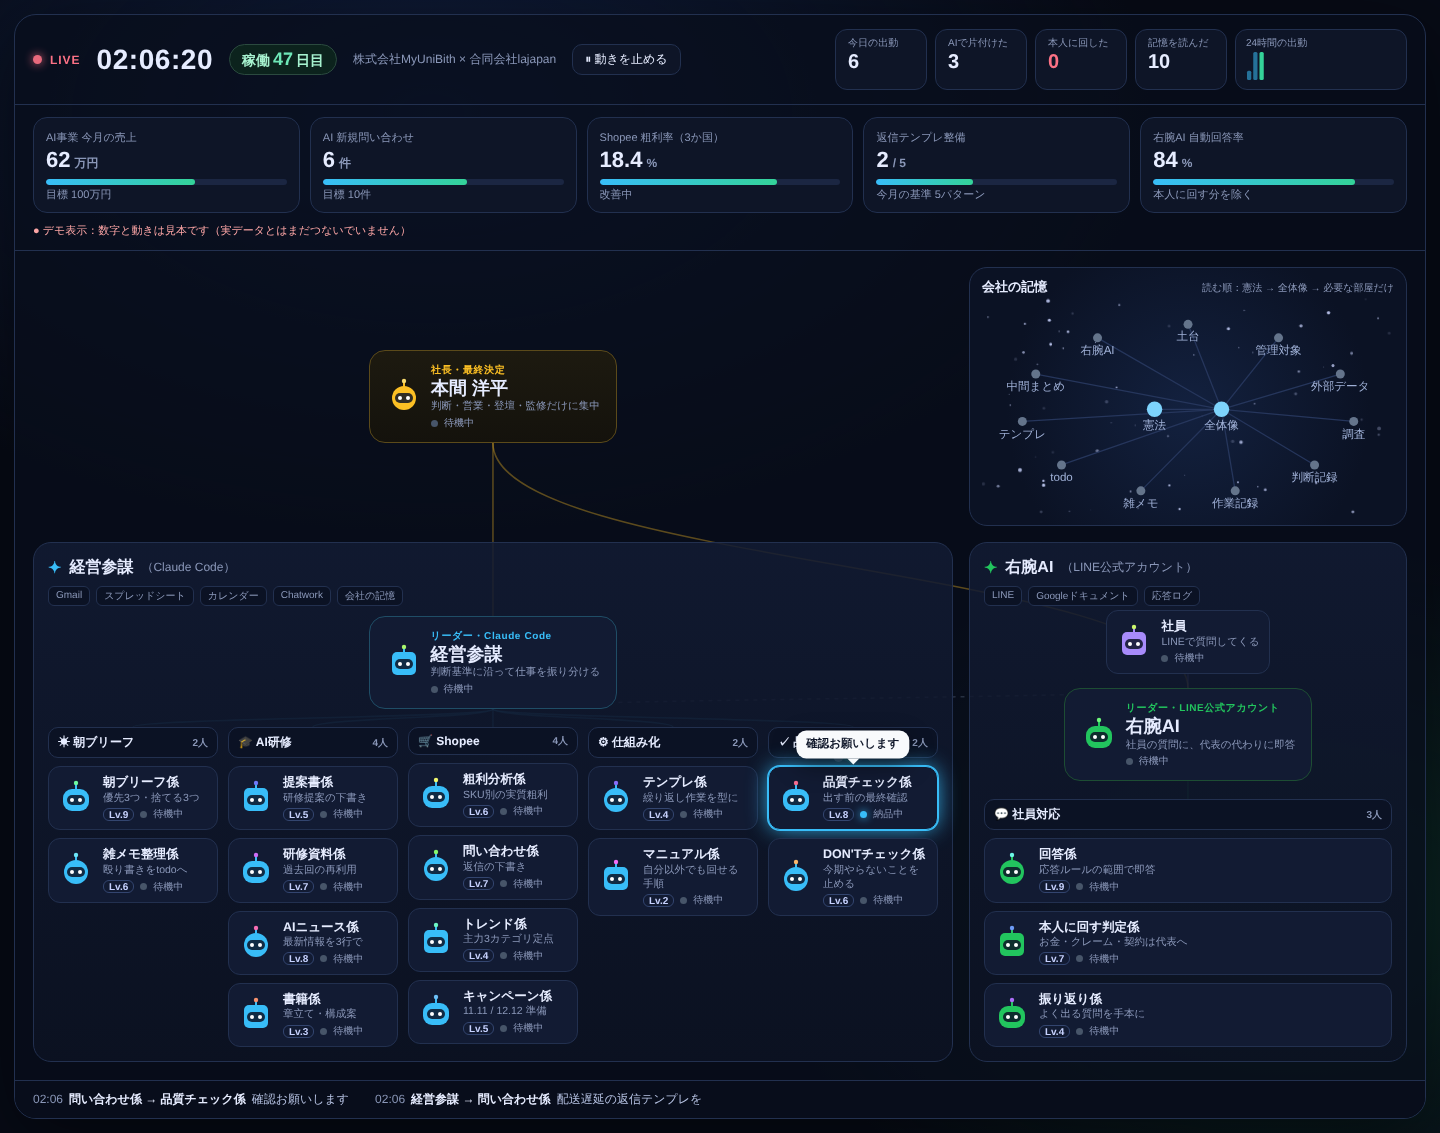
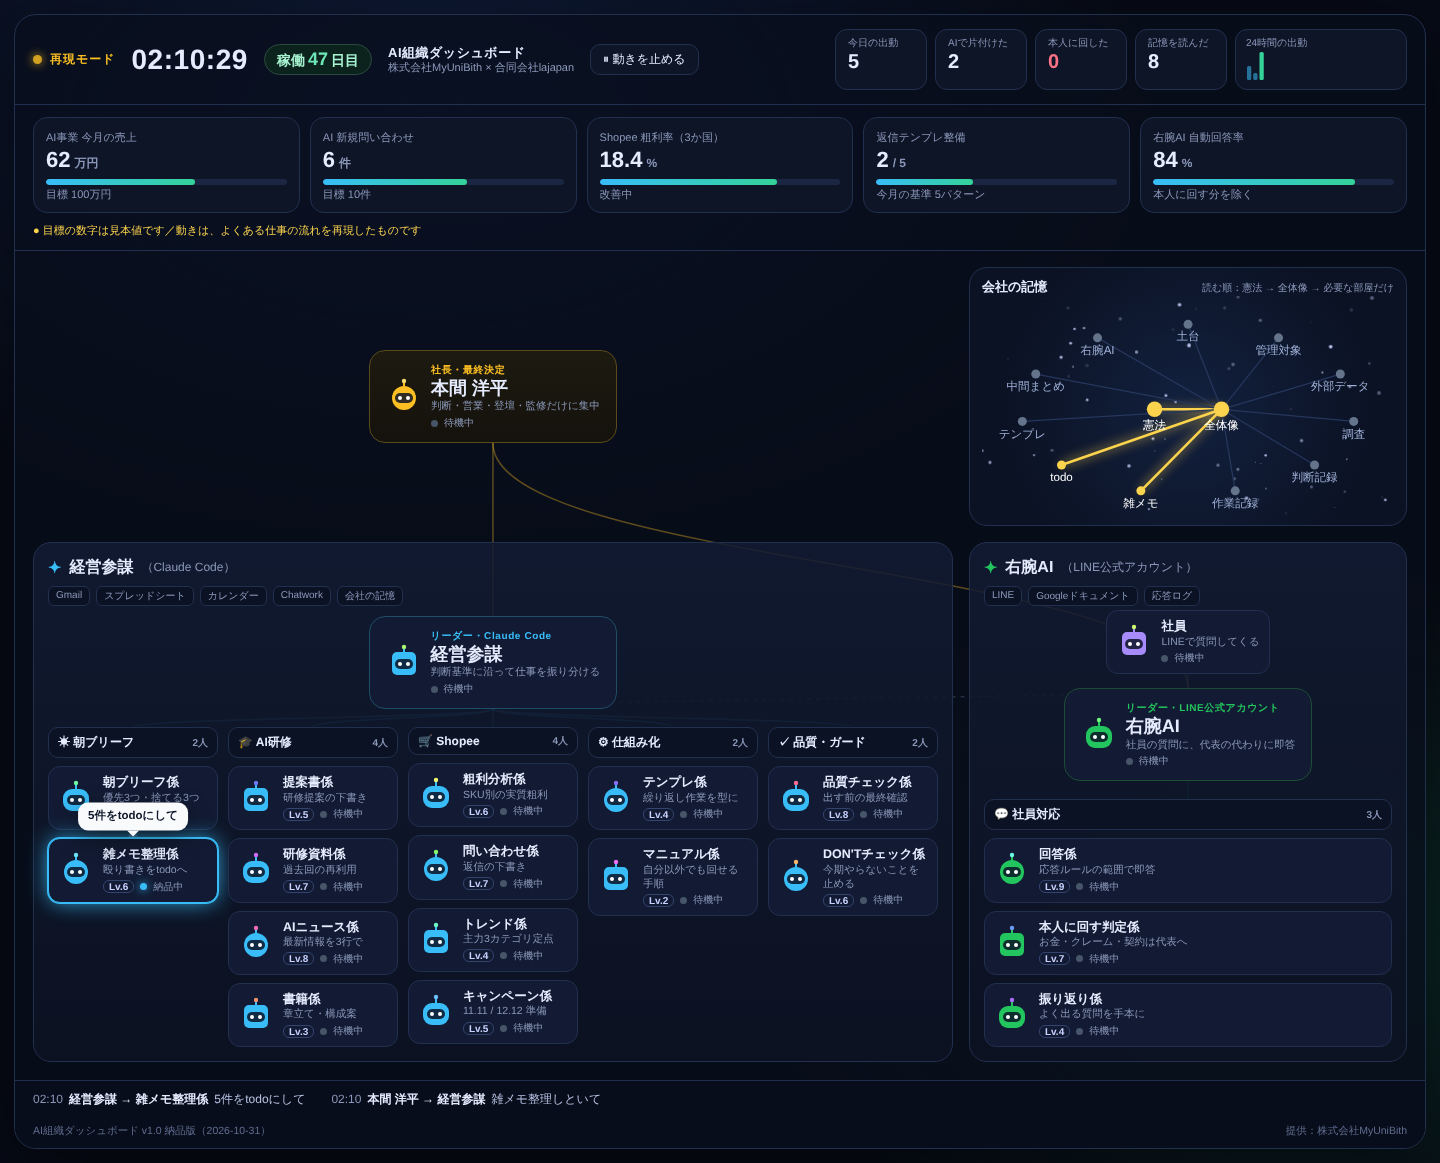
AI組織ダッシュボードをv1.0納品版に（再現モード表示・版と提供元の表記・日付変更でリセット）
Claude-Session: https://claude.ai/code/session_011drMTiUaWJKKxewPZPpHN8

diff --git a/12_AI組織ダッシュボード/AI組織ダッシュボード.html b/12_AI組織ダッシュボード/AI組織ダッシュボード.html
@@ -21,7 +21,11 @@
   .clock{font-size:28px;font-weight:800;font-variant-numeric:tabular-nums;letter-spacing:.02em}
   .pill{border:1px solid #2b4a3f;background:#0c231d;color:#a7f3d0;border-radius:999px;padding:4px 12px;font-weight:700}
   .pill b{font-size:18px;color:#6ee7b7;margin:0 3px}
-  .brand{color:var(--sub);font-size:12px}
+  .live.replay{color:var(--owner)}
+  .live.replay i{background:var(--owner);box-shadow:0 0 10px var(--owner)}
+  .title{display:flex;flex-direction:column;line-height:1.2}
+  .title b{font-size:13px;letter-spacing:.04em}
+  .brand{color:var(--sub);font-size:11px}
   .btn{border:1px solid var(--line);background:var(--panel);color:var(--text);border-radius:10px;padding:6px 12px;font:inherit;font-size:12px;cursor:pointer}
   .btn:hover{border-color:var(--sanbo)}
   .stats{display:flex;gap:8px;margin-left:auto;flex-wrap:wrap}
@@ -40,7 +44,8 @@
   .kpi .v span{font-size:12px;color:var(--sub);font-weight:600;margin-left:4px}
   .bar{height:6px;border-radius:6px;background:#1b2642;overflow:hidden}
   .bar i{display:block;height:100%;border-radius:6px;background:linear-gradient(90deg,var(--sanbo),var(--good));transition:width 1s}
-  .demo{grid-column:1/-1;font-size:11px;color:#fca5a5;display:flex;align-items:center;gap:6px}
+  .demo{grid-column:1/-1;font-size:11px;color:#fcd34d;display:flex;align-items:center;gap:6px}
+  .demo:empty{display:none}
 
   /* 舞台 */
   .stage{position:relative;padding:16px 18px 18px}
@@ -108,6 +113,7 @@
   .ticker .t{color:var(--sub);margin-right:6px;font-variant-numeric:tabular-nums}
   .ticker .who{font-weight:700}
   .ticker .what{color:#b6c2e2;margin-left:6px}
+  .credit{display:flex;justify-content:space-between;flex-wrap:wrap;gap:4px 12px;padding:6px 18px 10px;font-size:10.5px;color:#5f6d8f;background:#080d1b}
   .ticker .lab{font-size:10px;border-radius:5px;padding:1px 5px;margin-left:6px;font-weight:800}
   .lab.esc{background:#4c1d24;color:#fda4af}.lab.rej{background:#1e293b;color:#94a3b8}.lab.ok{background:#052e1f;color:#6ee7b7}
 
@@ -144,10 +150,10 @@
 <body>
 <div class="wrap" id="wrap">
   <header class="top">
-    <div class="live"><i></i>LIVE</div>
+    <div class="live" id="live"><i></i><span id="live-t">LIVE</span></div>
     <div class="clock" id="clock">--:--:--</div>
     <div class="pill">稼働<b id="days">0</b>日目</div>
-    <div class="brand" id="brand"></div>
+    <div class="title"><b id="product"></b><span class="brand" id="brand"></span></div>
     <button class="btn" id="pause">⏸ 動きを止める</button>
     <div class="stats">
       <div class="stat"><small>今日の出動</small><b id="s-dispatch">0</b></div>
@@ -173,6 +179,7 @@
   </main>
 
   <footer class="ticker" id="ticker"></footer>
+  <div class="credit"><span id="credit-l"></span><span id="credit-r"></span></div>
 </div>
 
 <script>
@@ -180,10 +187,16 @@
    設定（お客さまごとに作り替えるときは、ここだけを書き換える）
    ===================================================================== */
 const CONFIG = {
+  product: "AI組織ダッシュボード",
+  version: "v1.0 納品版（2026-10-31）",
+  provider: "提供：株式会社MyUniBith",
   brand: "株式会社MyUniBith × 合同会社lajapan",
+  // 動きの出どころ：replay＝よくある仕事の流れを再現して見せる／live＝実際の記録を流す（実データ接続後）
+  activity: "replay",
+  // 目標の数字が見本値なら true。本物の数字に入れ替えたら false にする（注意書きが消える）
+  numbersAreSample: true,
   startDate: "2026-09-15",              // 稼働開始日（「稼働○日目」の起点）
   owner: { id:"owner", name:"本間 洋平", tag:"社長・最終決定", desc:"判断・営業・登壇・監修だけに集中" },
-  demoNote: "デモ表示：数字と動きは見本です（実データとはまだつないでいません）",
   kpis: [
     { label:"AI事業 今月の売上", value:62, unit:"万円", goal:100, goalText:"目標 100万円" },
     { label:"AI 新規問い合わせ", value:6, unit:"件", goal:10, goalText:"目標 10件" },
@@ -314,7 +327,14 @@ function makeNode(o, color, cls, big){
 }
 
 function build(){
+  $("#product").textContent = CONFIG.product;
   $("#brand").textContent = CONFIG.brand;
+  $("#credit-l").textContent = `${CONFIG.product} ${CONFIG.version}`;
+  $("#credit-r").textContent = CONFIG.provider;
+  if (CONFIG.activity !== "live"){
+    $("#live").classList.add("replay"); $("#live-t").textContent = "再現モード";
+    $("#live").title = "よくある仕事の流れを再現して表示しています";
+  }
   const d = Math.floor((Date.now() - new Date(CONFIG.startDate)) / 864e5) + 1;
   $("#days").textContent = Math.max(1,d);
 
@@ -326,7 +346,10 @@ function build(){
       `<div class="kpi"><small>${x.label}</small><div class="v">${x.value}<span>${x.unit}</span></div>
        <div class="bar"><i style="width:${pct}%"></i></div><small>${x.goalText}</small></div>`);
   });
-  k.insertAdjacentHTML("beforeend", `<div class="demo">● ${CONFIG.demoNote}</div>`);
+  const notes = [];
+  if (CONFIG.numbersAreSample) notes.push("目標の数字は見本値です");
+  if (CONFIG.activity !== "live") notes.push("動きは、よくある仕事の流れを再現したものです");
+  k.insertAdjacentHTML("beforeend", `<div class="demo">${notes.length ? "● " + notes.join("／") : ""}</div>`);
 
   // 代表
   $("#ownerbox").appendChild(makeNode(CONFIG.owner, "#fbbf24", "owner", true));
@@ -533,7 +556,17 @@ async function loop(){
 }
 
 /* ---------- 時計・一時停止 ---------- */
-setInterval(()=>{ $("#clock").textContent = new Date().toTimeString().slice(0,8); }, 500);
+let today = new Date().getDate();
+setInterval(()=>{
+  const now = new Date();
+  $("#clock").textContent = now.toTimeString().slice(0,8);
+  if (now.getDate() !== today){            // 日付が変わったら「今日」の数字をリセット
+    today = now.getDate(); HOURS.fill(0); drawSpark();
+    ["s-dispatch","s-auto","s-esc","s-mem"].forEach(id=> $("#"+id).textContent = 0);
+    const d = Math.floor((now - new Date(CONFIG.startDate)) / 864e5) + 1;
+    $("#days").textContent = Math.max(1,d);
+  }
+}, 500);
 $("#pause").onclick = ()=>{
   paused = !paused;
   $("#wrap").classList.toggle("paused", paused);

diff --git a/05_判断と議事の記録/2026-10-31_AI組織ダッシュボードを納品版にする判断.md b/05_判断と議事の記録/2026-10-31_AI組織ダッシュボードを納品版にする判断.md
@@ -1,0 +1,26 @@
+# 判断記録｜AI組織ダッシュボードを、AIパッケージの納品版（v1.0）にする
+
+**日付**：2026-10-31
+**種別**：方針変更（AIパッケージの納品物）
+
+## 何を決めたか
+- `12_AI組織ダッシュボード/AI組織ダッシュボード.html` を、AIパッケージの **納品物の正式版（v1.0）** とする
+
+## なぜそう決めたか（★ここが最重要）
+- Threadsで見た「AIの社員が働く様子を見せる画面」を、自社のAIパッケージで採用したいと本人が判断
+- 「社長の机に届くのは、判断が必要なものだけになる」を一目で伝えられ、AI研修事業のKPI（月商100万円・新規問い合わせ10件）に効く見せ方になる
+
+## そのとき分かっていなかったこと・前提にしたこと
+- 目標の数字は見本値、動きは「よくある仕事の流れの再現」（実データとはまだつないでいない）
+  → 画面に「再現モード」と見本値の注意書きを出して、正直に表示する形で正式版とした
+- 価格・パッケージのどこに入れるかは **未決定**（本人判断）
+
+## 見送った選択肢と、その理由
+- 参考にした投稿の見た目・キャラクターに寄せる → 売り物に使うため、オリジナルのデザインにした
+- 実データとつないでから納品版にする → 記録がまだ溜まっていない。先に正式版を固め、接続は次の段階に回した
+
+## 判断基準のどれに沿っているか
+粗利インパクト（AI研修の受注につながる見せ方）／仕組み化価値（設定を変えるだけでお客さま版を作れる）
+
+## 結果（後日わかったら追記する）
+- YYYY-MM-DD：
